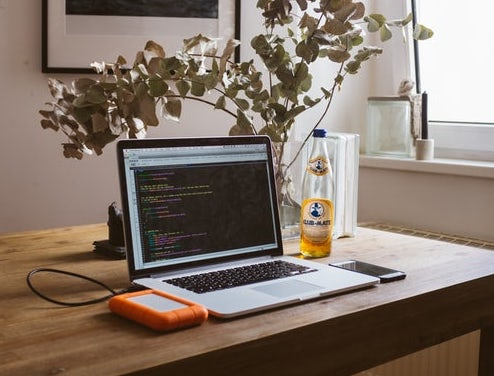
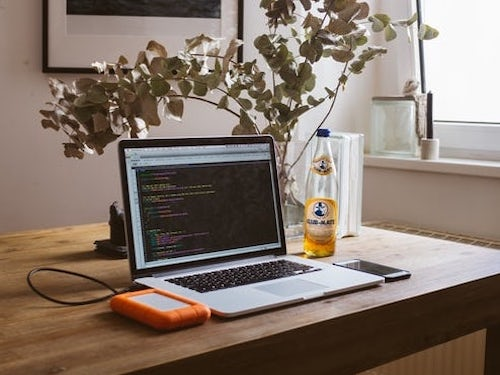
Resized all images to the same size in attempt to fix 4th column spacing to no avail, still need to use margins to get the spacing right but alignment has been improved

diff --git a/src/app/top-fold/top-fold.component.css b/src/app/top-fold/top-fold.component.css
@@ -28,7 +28,7 @@ img {
 .grid {
   display: grid;
   grid-template-columns: repeat(4, 3fr);
-  grid-gap: 5px;
+  grid-gap: 8px;
 }
 #how-to, #fix, #buy, #do-more {
   display: grid;
@@ -49,9 +49,13 @@ img {
   text-decoration-color: yellowgreen;
 }
 #do-more h1 {
-  margin-top: 40px;
+  margin-top: 15px;
+  margin-bottom: 25px;
   text-decoration: underline;
   text-decoration-color: rgb(72, 139, 194);
+}
+#do-more img {
+  margin-bottom: 12px;
 }
 .type {
   font-variant: small-caps;
